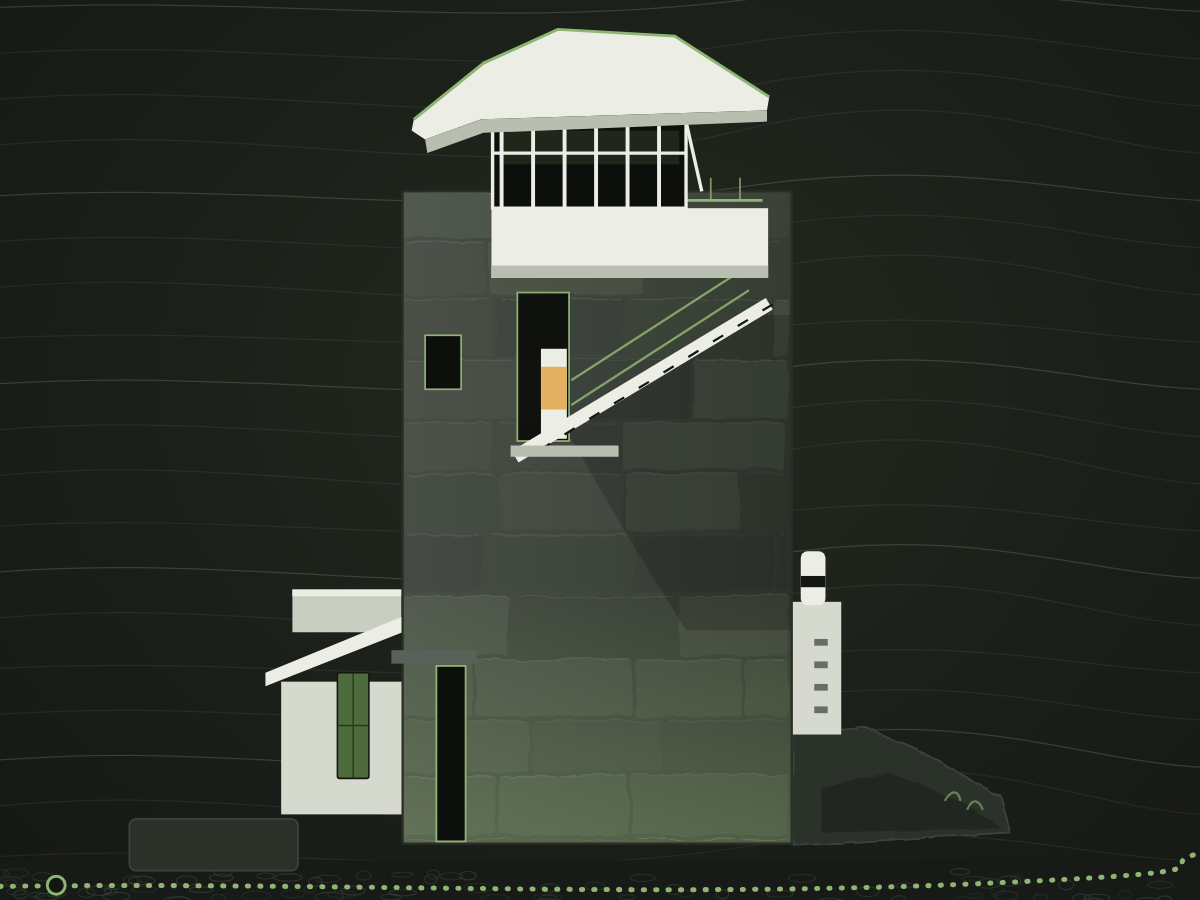
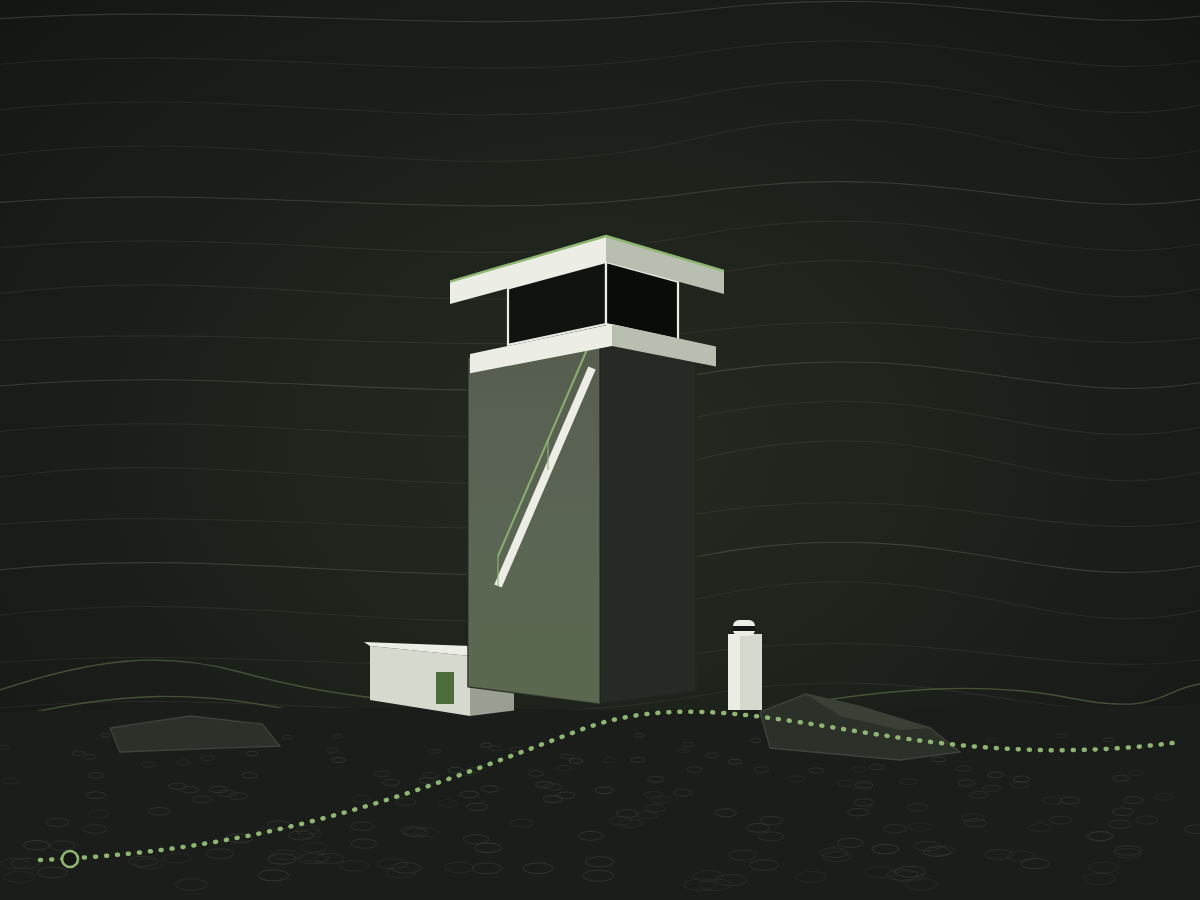
Grafismo Posto de Vigia v2: afastado, com perspetiva, sem detalhe interior
Claude-Session: https://claude.ai/code/session_01WmT6Kpunuff11J39vvMKeK

diff --git a/grafismos/gen_vigia2.js b/grafismos/gen_vigia2.js
@@ -1,0 +1,57 @@
+const fs=require('fs');
+let sd=5;const r=()=>{sd=(sd*16807)%2147483647;return sd/2147483647};
+const f=n=>n.toFixed(1), HY=560, VL=-500, VR=1700;
+const yL=(cx,yc,x)=>yc+(HY-yc)*(Math.abs(x-cx)/Math.abs((x<cx?VL:VR)-cx));
+function box(cx,yt,yb,wl,wr,cL,cR,o={}){
+  const a=[cx,yt],b=[cx,yb],lt=[cx-wl,yL(cx,yt,cx-wl)],lb=[cx-wl,yL(cx,yb,cx-wl)],rt=[cx+wr,yL(cx,yt,cx+wr)],rb=[cx+wr,yL(cx,yb,cx+wr)];
+  const P=q=>q.map(p=>f(p[0])+','+f(p[1])).join(' ');
+  const st=o.stroke?` stroke="${o.stroke}" stroke-width="${o.sw||1.4}" stroke-linejoin="round"`:'';
+  return {svg:`<polygon points="${P([a,lt,lb,b])}" fill="${cL}"${st}/><polygon points="${P([a,rt,rb,b])}" fill="${cR}"${st}/>`,pt:{a,b,lt,lb,rt,rb}};
+}
+let cont='';for(let i=0;i<20;i++){const yy=20+i*46,a=20+(i*7%24);cont+=`<path d="M-20 ${yy} C 250 ${yy-a}, 450 ${yy+a}, 700 ${yy-a/2} S 1050 ${yy+a}, 1220 ${yy-a/3}" stroke-opacity="${i%4==0?.22:.10}"/>`}
+let grav='';for(let i=0;i<190;i++){const v=r(),y=735+v*150,x=r()*1200,sc=.5+v*1.1;grav+=`<ellipse cx="${f(x)}" cy="${f(y)}" rx="${f(10*sc)}" ry="${f(3.6*sc)}" fill="none" stroke="#3D433B" stroke-width="1" opacity="${(.25+r()*.4).toFixed(2)}"/>`}
+const annex=box(470,656,716,100,44,'#D5D9CE','#9AA091');
+const tower=box(600,330,704,132,96,'#4B5345','#2A2F28',{stroke:'#232721'});
+const slab=box(612,324,346,142,104,'#ECEEE6','#B9BFB0');
+const glass=box(606,262,324,98,72,'#101310','#0A0C09',{stroke:'#ECEEE6',sw:2.2});
+const roof=box(606,236,262,156,118,'#ECEEE6','#B9BFB0');
+const t=tower.pt;
+// escada na face esquerda/frente
+const sx0=600-112,sx1=600-14;
+const sy=(x,yy)=>yy;
+const stair=`<path d="M498,586 L592,368" stroke="#ECEEE6" stroke-width="8"/><path d="M498,556 L592,338" stroke="#8FB573" stroke-width="2" opacity=".9"/><path d="M498,556V586M548,440V470" stroke="#8FB573" stroke-width="1.6" opacity=".7"/>`;
+const svg=`<svg xmlns="http://www.w3.org/2000/svg" viewBox="0 0 1200 900" width="1200" height="900">
+<defs>
+<linearGradient id="sh" x1="0" y1="0" x2="0" y2="1"><stop offset="0" stop-color="#ECEEE6" stop-opacity=".06"/><stop offset="1" stop-color="#8FB573" stop-opacity=".22"/></linearGradient>
+<radialGradient id="glow" cx=".5" cy=".5" r=".7"><stop offset="0" stop-color="#8FB573" stop-opacity=".13"/><stop offset="1" stop-color="#8FB573" stop-opacity="0"/></radialGradient>
+</defs>
+<rect width="1200" height="900" fill="#141614"/><rect width="1200" height="900" fill="url(#glow)"/>
+<g fill="none" stroke="#A3A895" stroke-width="1.1">${cont}</g>
+<!-- serras ao longe -->
+<g fill="none" stroke="#8FB573" stroke-opacity=".35" stroke-width="1.3"><path d="M0,690 C 90,660 160,650 240,672 S 380,700 470,706"/><path d="M0,720 C 120,690 200,690 300,712"/><path d="M790,706 C 880,690 980,680 1070,698 S 1160,690 1200,684"/></g>
+<!-- chão -->
+<path d="M0,712 C 200,706 420,708 600,710 S 1000,708 1200,704 V900 H0Z" fill="#1A1D19"/>
+<g>${grav}</g>
+<!-- rochedo -->
+<polygon points="760,712 806,694 858,706 930,728 960,752 900,760 770,748" fill="#2B3029" stroke="#3D433B" stroke-width="1.4"/>
+<polygon points="806,694 858,706 930,728 900,730 840,716" fill="#3A4036"/>
+<polygon points="110,728 190,716 262,724 280,746 120,752" fill="#2B3029" stroke="#3D433B" stroke-width="1.4"/>
+<!-- marco branco -->
+<rect x="728" y="634" width="34" height="76" fill="#D5D9CE"/><rect x="728" y="634" width="12" height="76" fill="#ECEEE6"/><rect x="733" y="620" width="22" height="16" rx="6" fill="#ECEEE6"/><rect x="733" y="626" width="22" height="5" fill="#141614"/>
+<!-- anexo -->
+${annex.svg}<polygon points="${annex.pt.a} ${annex.pt.lt} ${annex.pt.lt[0]-6},${annex.pt.lt[1]-4} ${annex.pt.a[0]},${annex.pt.a[1]-10}" fill="#ECEEE6"/>
+<rect x="436" y="672" width="18" height="32" fill="#4E6B3C"/>
+<!-- torre -->
+${tower.svg}
+<rect x="${f(600-132)}" y="330" width="1" height="1" fill="none"/>
+<polygon points="${f(t.a[0])},${f(t.a[1])} ${f(t.rt[0])},${f(t.rt[1])} ${f(t.rb[0])},${f(t.rb[1])} ${f(t.b[0])},${f(t.b[1])}" fill="#0D0F0C" opacity=".15"/>
+<polygon points="${f(t.lt[0])},${f(t.lt[1])} ${f(t.a[0])},${f(t.a[1])} ${f(t.b[0])},${f(t.b[1])} ${f(t.lb[0])},${f(t.lb[1])}" fill="url(#sh)"/>
+${stair}
+<!-- varanda, cabine, telhado -->
+${glass.svg}${slab.svg}${roof.svg}
+<path d="M${f(roof.pt.lt[0])},${f(roof.pt.lt[1])} L${f(roof.pt.a[0])},${f(roof.pt.a[1])} L${f(roof.pt.rt[0])},${f(roof.pt.rt[1])}" fill="none" stroke="#8FB573" stroke-width="2.4" stroke-linejoin="round"/>
+<!-- rota -->
+<path d="M40,860 C 280,850 420,790 580,730 S 900,780 1180,742" fill="none" stroke="#8FB573" stroke-width="4.5" stroke-linecap="round" stroke-dasharray="1 10"/>
+<circle cx="70" cy="859" r="8" fill="#141614" stroke="#8FB573" stroke-width="2.6"/>
+</svg>`;
+fs.writeFileSync('posto-de-vigia.svg',svg);
